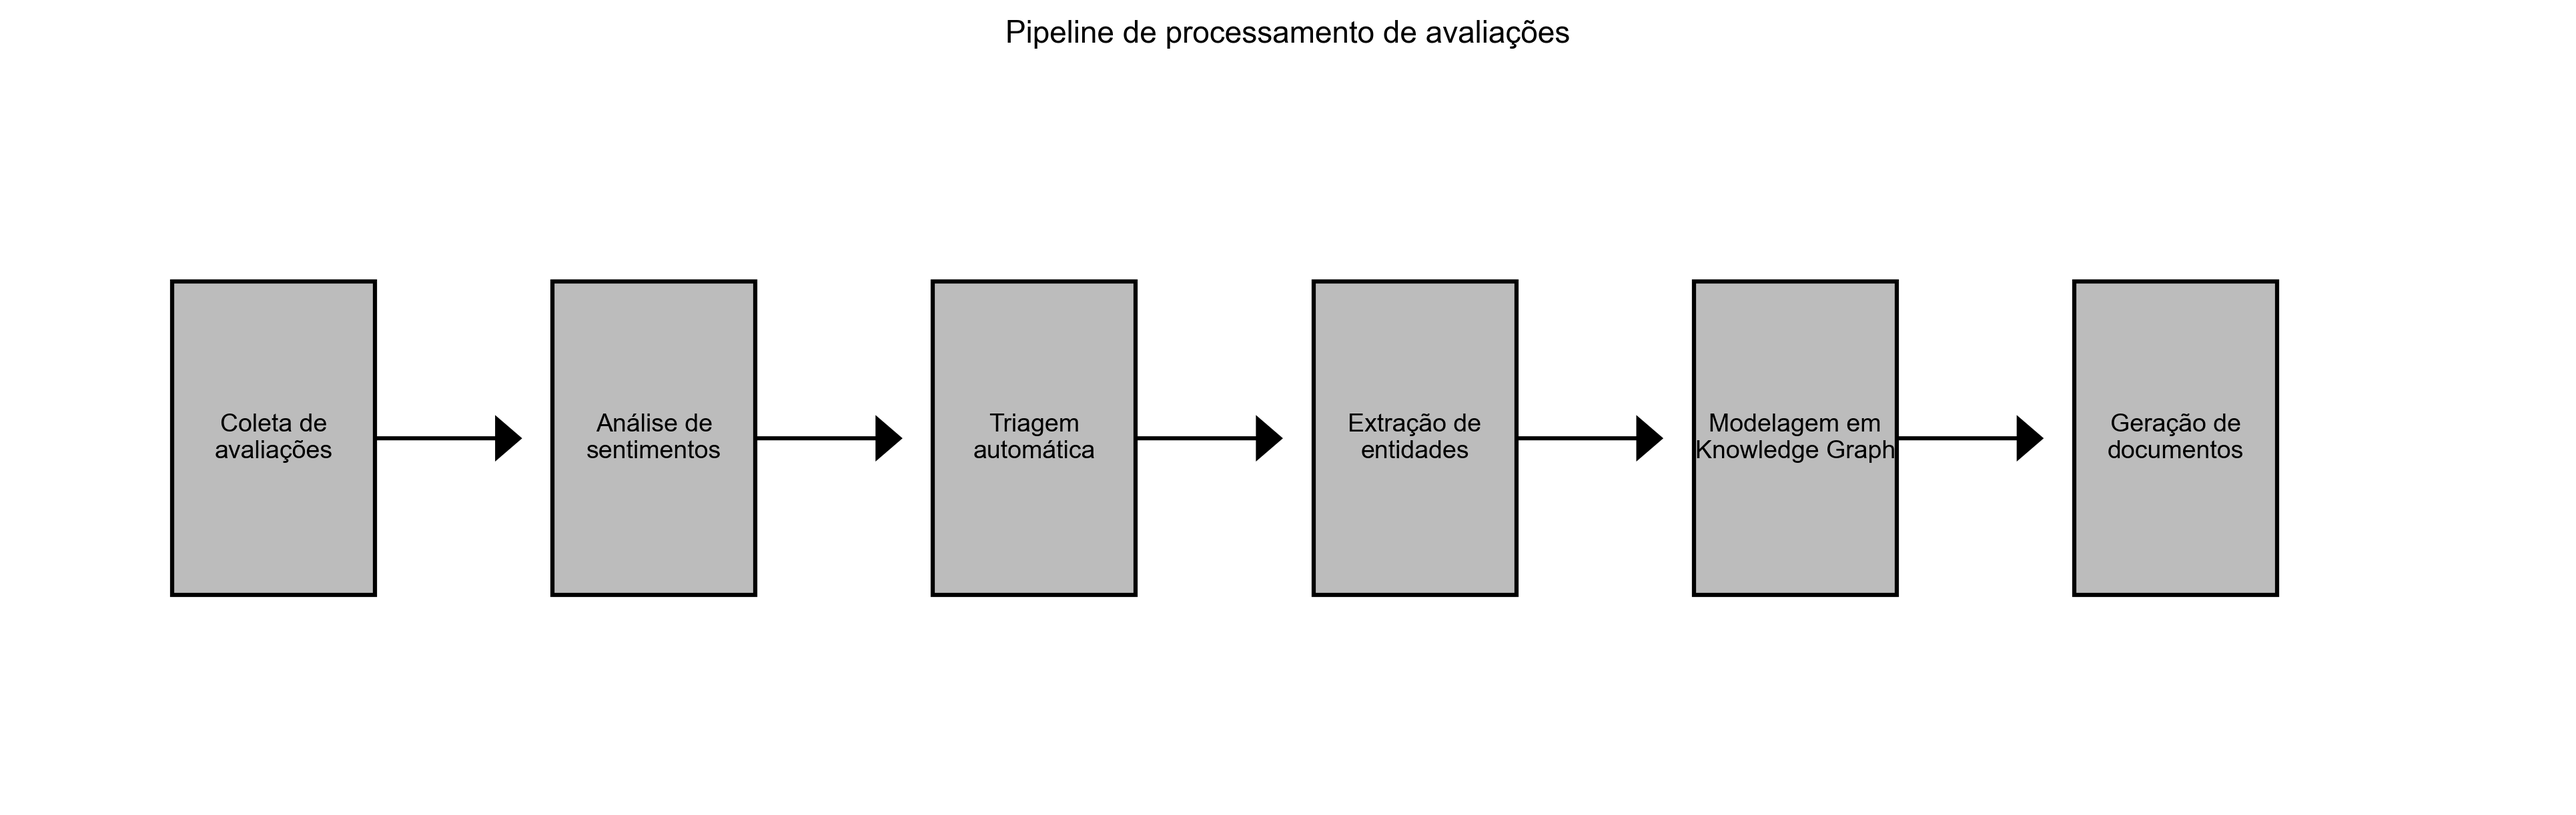
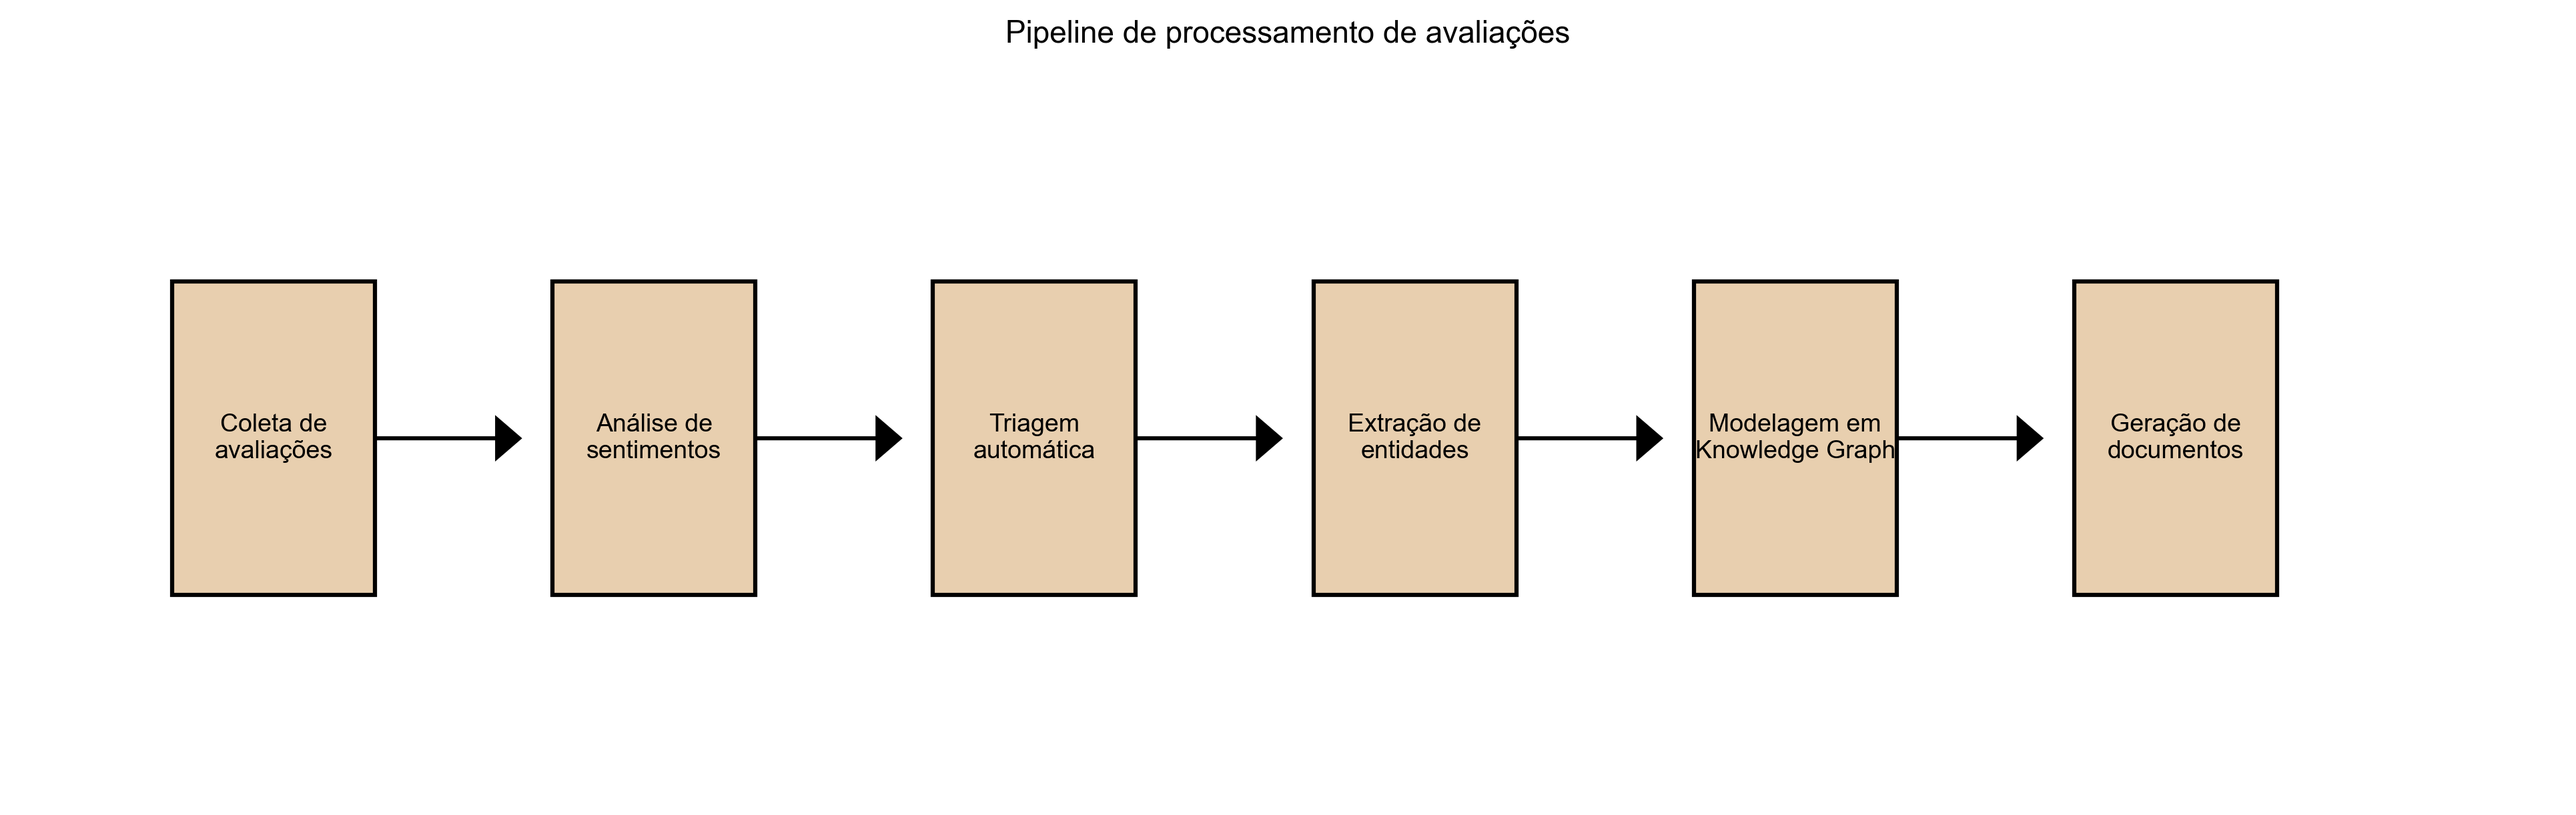
docs(tcc): aplicar paleta pastel e revisão final de estilo
Made-with: Cursor

diff --git a/scripts/generate_model_comparison_charts.py b/scripts/generate_model_comparison_charts.py
@@ -8,27 +8,25 @@ import json
 import matplotlib as mpl
 import matplotlib.pyplot as plt
 import numpy as np
-import seaborn as sns
 from pathlib import Path
 
 _REPO_ROOT = Path(__file__).resolve().parents[1]
 _CONFUSION_JSON = _REPO_ROOT / "data" / "confusion_matrices_sentiment.json"
 
 # Configuração de estilo
-plt.style.use('seaborn-v0_8-darkgrid')
-sns.set_palette("husl")
+plt.style.use("default")
 plt.rcParams['figure.figsize'] = (16, 6)
 plt.rcParams['font.size'] = 10
 plt.rcParams['font.family'] = 'DejaVu Sans'
 
-# Cores para gráficos
+# Cores para gráficos (pastel discreto)
 CORES = {
-    'distilbert': '#2E86AB',  # Azul
-    'bertweet': '#06A77D',   # Verde
-    'gpt4o': '#2E86AB',      # Azul
-    'gpt52': '#A23B72',      # Roxo
-    'gptoss': '#F18F01',     # Laranja
-    'gptmini': '#C73E1D',    # Vermelho
+    'distilbert': '#BFD8B8',  # Verde sálvia
+    'bertweet': '#9BB7D4',    # Azul pastel
+    'gpt4o': '#9BB7D4',
+    'gpt52': '#C9B6D8',       # Lilás pastel
+    'gptoss': '#E8CFAF',      # Bege pastel
+    'gptmini': '#D9A5A5',     # Rosa queimado suave
 }
 
 def criar_diretorio_imagens():
@@ -50,15 +48,15 @@ def _curva_roc_esquematica(auc: float, n: int = 100) -> tuple[np.ndarray, np.nda
 def grafico_comparacao_sentimentos(output_dir):
     """
     Três painéis (A/B/C), normas Tabela 8: sem grade, sem preenchimento de fundo,
-    eixos pretos 1,5 pt, Arial 11, barras em tons de cinza (anexo).
+    eixos pretos 1,5 pt, Arial 11, barras em paleta pastel discreta.
     Métricas alinhadas às matrizes n=1000 em data/confusion_matrices_sentiment.json.
     """
     _, _, meta = _carregar_matrizes_confusao()
     md = meta["distilbert"]["chart_metrics"]
     mb = meta["bertweet"]["chart_metrics"]
 
-    cinza_claro = "#BCBCBC"
-    cinza_escuro = "#6E6E6E"
+    cinza_claro = "#BFD8B8"
+    cinza_escuro = "#9BB7D4"
 
     rc = {
         "figure.facecolor": "white",
@@ -88,11 +86,11 @@ def grafico_comparacao_sentimentos(output_dir):
         ax1.plot(
             fpr_b,
             tpr_b,
-            color="#333333",
+            color="#7F95AD",
             linewidth=1.5,
             label=f"BERTweet (Twitter XLM-RoBERTa) (AUC = {auc_b:.3f})",
         )
-        ax1.plot([0, 1], [0, 1], linestyle="--", color="#888888", linewidth=1.2, label="Classificador aleatório")
+        ax1.plot([0, 1], [0, 1], linestyle="--", color="#B8B8B8", linewidth=1.2, label="Classificador aleatório")
         ax1.set_xlabel("Taxa de falsos positivos", fontsize=11, fontweight="normal", labelpad=6)
         ax1.set_ylabel("Taxa de verdadeiros positivos", fontsize=11, fontweight="normal", labelpad=6)
         ax1.set_xlim(0, 1)
@@ -255,13 +253,16 @@ def _carregar_matrizes_confusao():
 
 def grafico_matriz_confusao_sentimentos(output_dir):
     """
-    Matrizes de confusão n=1000 (ground truth): paleta em tons de cinza (anexo),
+    Matrizes de confusão n=1000 (ground truth): paleta pastel suave,
     Arial 11 preto, sem título interno; painéis A e B conforme manual (sem parênteses).
     """
     distil_matrix, bertweet_matrix, meta = _carregar_matrizes_confusao()
     labels = ["Negativo", "Neutro", "Positivo"]
     vmax = float(max(distil_matrix.max(), bertweet_matrix.max()))
-    cmap = mpl.colormaps["Greys"].copy()
+    cmap = mpl.colors.LinearSegmentedColormap.from_list(
+        "pastel_blues",
+        ["#FFFFFF", "#DCE8F6", "#9BB7D4"],
+    )
     cmap.set_bad(color="white")
 
     rc = {
@@ -306,7 +307,7 @@ def grafico_matriz_confusao_sentimentos(output_dir):
     )
 
 def grafico_comparacao_gpt_models(output_dir):
-    """Duas figuras separadas (normas TCC): acurácia e distribuição — tons de cinza, sem grade."""
+    """Duas figuras separadas (normas TCC): acurácia e distribuição em paleta pastel, sem grade."""
     try:
         from scripts.tcc_chart_style import (
             CINZA_CLARO,

diff --git a/scripts/gen_priorizacao_fig.py b/scripts/gen_priorizacao_fig.py
@@ -9,7 +9,10 @@ plt.rcParams["font.family"] = "sans-serif"
 plt.rcParams["font.sans-serif"] = ["Arial", "DejaVu Sans", "Helvetica"]
 
 root = Path(__file__).resolve().parents[1]
-md_path = root / "Documentos" / "backlog_priorizado.md"
+md_candidates = [
+    root / "Documentos" / "backlog_priorizado.md",
+    root / "Documentos" / "Backlog Priorizado - Aplicativo Bancário.md",
+]
 out = root / "Documentos" / "imagens_tcc" / "exemplo_documento_priorizacao_backlog.png"
 
 
@@ -18,11 +21,12 @@ def parse_resumo_table(text: str) -> list[list[str]]:
     rows_out: list[list[str]] = []
     in_table = False
     for line in lines:
-        if line.strip().startswith("| Categoria |"):
+        line_strip = line.strip()
+        if line_strip.startswith("| Categoria"):
             in_table = True
             continue
         if in_table:
-            if not line.strip().startswith("|"):
+            if not line_strip.startswith("|"):
                 break
             if re.match(r"^\|[\s:-]+\|", line):
                 continue
@@ -33,8 +37,19 @@ def parse_resumo_table(text: str) -> list[list[str]]:
 
 
 def main() -> None:
+    md_path = next((p for p in md_candidates if p.exists()), None)
+    if md_path is None:
+        raise FileNotFoundError(
+            "Nenhum arquivo de backlog encontrado em: "
+            + ", ".join(str(p) for p in md_candidates)
+        )
+
     raw = md_path.read_text(encoding="utf-8")
     data = parse_resumo_table(raw)
+    if not data:
+        raise ValueError(
+            f"Tabela 'Distribuição de Categorias' não encontrada em {md_path}"
+        )
     # Ordenar por quantidade (col1 int) e manter top 8 para caber na figura
     def qtd(row: list[str]) -> int:
         try:
@@ -60,15 +75,15 @@ def main() -> None:
         colLabels=cols,
         loc="center",
         cellLoc="left",
-        colColours=["#e8e8e8"] * len(cols),
+        colColours=["#DCE8F6"] * len(cols),
     )
     table.auto_set_font_size(False)
     table.set_fontsize(8)
     table.scale(1.05, 1.35)
 
-    meta = re.search(r"Data:\s*(.+)", raw)
-    total = re.search(r"Total de Avaliações:\s*(\d+)", raw)
-    modelo = re.search(r"Modelo:\s*(.+)", raw)
+    meta = re.search(r"(?:Data|Data de Geração):\**\s*(.+)", raw)
+    total = re.search(r"(?:Total de Avaliações|Total de Avaliações Analisadas):\**\s*(\d+)", raw)
+    modelo = re.search(r"(?:Modelo|Modelo LLM Utilizado):\**\s*(.+)", raw)
     foot = "Fonte dos dados: arquivo backlog_priorizado.md"
     if meta:
         foot += f" ({meta.group(1).strip()})"

diff --git a/scripts/tcc_chart_style.py b/scripts/tcc_chart_style.py
@@ -1,4 +1,4 @@
-"""Estilo de figuras alinhado às normas do TCC ESALQ (Tabela 8): fundo branco, sem grade, eixos 1,5 pt."""
+"""Estilo de figuras do TCC: fundo branco, eixos 1,5 pt e paleta pastel discreta."""
 
 from __future__ import annotations
 
@@ -15,9 +15,11 @@ RC_ESALQ = {
     "text.color": "black",
 }
 
-CINZA_CLARO = "#BCBCBC"
-CINZA_MEDIO = "#8C8C8C"
-CINZA_ESCURO = "#4A4A4A"
+# Mantemos os nomes por compatibilidade com scripts existentes,
+# mas agora aplicando tons pastel suaves (não chamativos).
+CINZA_CLARO = "#E8CFAF"   # bege pastel
+CINZA_MEDIO = "#BFD8B8"   # verde sálvia pastel
+CINZA_ESCURO = "#9BB7D4"  # azul pastel
 
 
 def aplicar_eixos_principais(ax, linewidth: float = 1.5) -> None:

diff --git a/scripts/generate_sna_visualizations.py b/scripts/generate_sna_visualizations.py
@@ -1,5 +1,5 @@
 """
-Script para gerar visualizações de métricas SNA (normas TCC: fundo branco, sem grade, cinzas).
+Script para gerar visualizações de métricas SNA (normas TCC: fundo branco, sem grade, paleta pastel discreta).
 """
 
 import json
